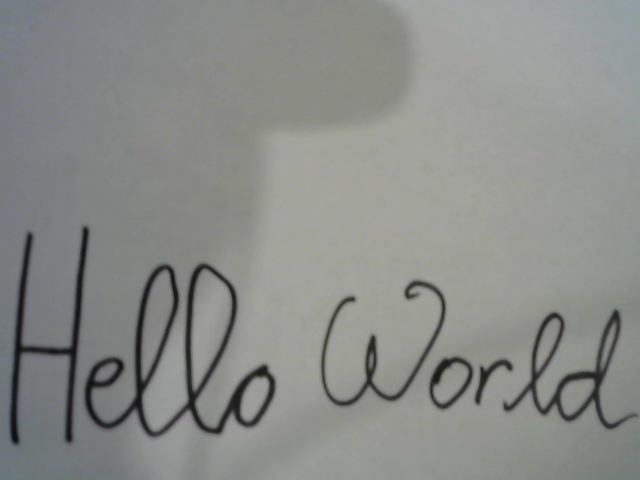
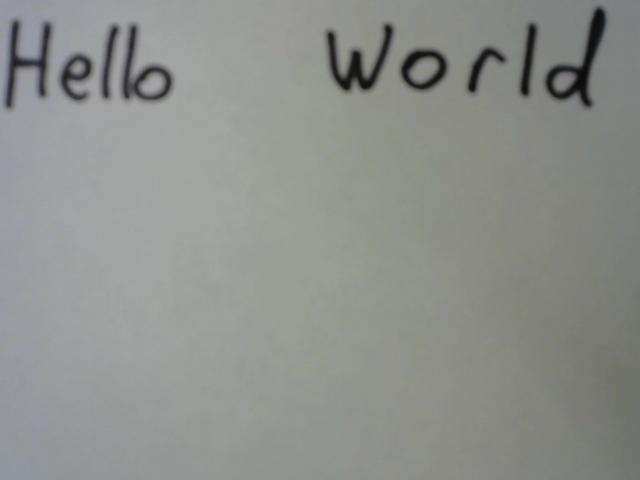
Added camera functionality to character segmentation.

diff --git a/character_segmentation/character_segmentation.py b/character_segmentation/character_segmentation.py
@@ -1,19 +1,85 @@
 import cv2
-img = cv2.imread('test.png', 0)
-cv2.threshold(img,0,255,cv2.THRESH_BINARY+cv2.THRESH_OTSU,img)
-contours, hier = cv2.findContours(img, cv2.RETR_EXTERNAL,cv2.CHAIN_APPROX_NONE)
-contours = sorted(contours, key=lambda ctr: cv2.boundingRect(ctr)[0])
-cv2.imshow("contours", img)
-cv2.waitKey(0)
-d=0
-for ctr in contours:
-    # Get bounding box
-    x, y, w, h = cv2.boundingRect(ctr)
-    # Getting ROI
-    roi = img[y:y+h, x:x+w]
+import os
+import numpy as np
 
-    cv2.imshow('character: %d'%d,roi)
-    cv2.imwrite('character_%d.png'%d, roi)
+def segment(file_name: str):
+    img = cv2.imread(file_name, 0)
+    cv2.threshold(img,0,255,cv2.THRESH_BINARY+cv2.THRESH_OTSU,img)
+    contours, hier = cv2.findContours(img, cv2.RETR_EXTERNAL,cv2.CHAIN_APPROX_NONE)
+    contours = sorted(contours, key=lambda ctr: cv2.boundingRect(ctr)[0])
+    cv2.imshow("contours", img)
     cv2.waitKey(0)
-    cv2.destroyAllWindows()
-    d+=1
+    d=0
+    for ctr in contours:
+        # Get bounding box
+        x, y, w, h = cv2.boundingRect(ctr)
+        # Getting ROI
+        roi = img[y:y+h, x:x+w]
+
+        cv2.imshow('character: %d'%d,roi)
+        cv2.imwrite('character_%d.png'%d, roi)
+        cv2.waitKey(0)
+        cv2.destroyAllWindows()
+        d+=1
+
+def capture(camera_number: int , img_name: str):
+    cam = cv2.VideoCapture(camera_number)
+    cv2.namedWindow('Text Detection')
+
+    while True:
+        ret, frame = cam.read()
+        cv2.imshow("test", frame)
+        if not ret:
+            break
+        k = cv2.waitKey(1)
+
+        if k%256 == 27:
+            # ESC pressed
+            print("Escape hit, closing...")
+            captured_img = False
+            break
+        elif k%256 == 32:
+            # SPACE pressed
+            img_dir = img_name
+            cv2.imwrite(img_dir, frame)
+            print("{} written!".format(img_name))
+            captured_img = True
+            break
+
+def increase_contrast(img_name: str):
+	# load image
+	img_dir = img_name
+	img_gray = cv2.imread(img_dir, cv2.IMREAD_GRAYSCALE)
+
+	# increase contrast
+	threshold = 150
+	img_gray = 255 - img_gray  # invert color
+	for row in range(img_gray.shape[0]):
+		for col in range(img_gray.shape[1]):
+			# print(img_gray[row][col])
+			if (img_gray[row][col] < threshold):
+				img_gray[row][col] = 0
+			else:
+				img_gray[row][col] = 255
+
+	# img_gray = 255 - img_gray #invert color back
+
+    # increase line width
+	kernel = np.ones((3, 3), np.uint8)
+	processed_img = cv2.erode(img_gray, kernel, iterations = 1)
+
+	# save processed image
+	img_name_root = os.path.splitext(img_name)[0]
+	processed_img_name = img_name_root + '_processed.png'
+	processed_img_dir = processed_img_name
+	cv2.imwrite(processed_img_dir, processed_img)
+
+	return processed_img_name
+
+def main():
+    capture(1, 'test_img.png')
+    increase_contrast('test_img.png')
+    segment('test_img_processed.png')
+
+if __name__ == '__main__':
+    main()
